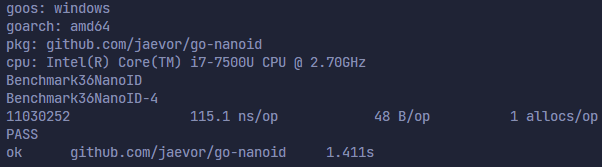
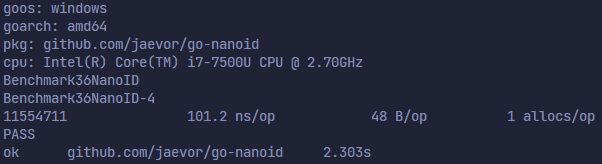
more mem opt

diff --git a/nanoid.go b/nanoid.go
@@ -17,12 +17,31 @@ import (
 )
 
 // Default characters (A-Za-z0-9_-).
-var defaultAlphabet = []byte("useandom-26T198340PX75pxJACKVERYMINDBUSHWOLF_GQZbfghjklqvwyzrict")
+// Using less memory with [64]byte{...} than []byte(...).
+// var defaultAlphabet = []byte("useandom-26T198340PX75pxJACKVERYMINDBUSHWOLF_GQZbfghjklqvwyzrict")
+var defaultAlphabet = [...]byte{
+	'a', 'b', 'c', 'd',
+	'e', 'f', 'g', 'h',
+	'i', 'j', 'k', 'l',
+	'm', 'n', 'o', 'p',
+	'q', 'r', 's', 't',
+	'u', 'v', 'w', 'x',
+	'y', 'z', 'A', 'B',
+	'C', 'D', 'E', 'F',
+	'G', 'H', 'I', 'J',
+	'K', 'L', 'M', 'N',
+	'O', 'P', 'Q', 'R',
+	'S', 'T', 'U', 'V',
+	'W', 'X', 'Y', 'Z',
+	'0', '1', '2', '3',
+	'4', '5', '6', '7',
+	'8', '9', '-', '_',
+}
 
 type generator = func() string
 
 /*
-Creates a new generator for Nano IDs.
+Creates a new generator for canonical Nano IDs.
 
 📝 Recommended (standard) length is 21
 
@@ -96,6 +115,10 @@ func StandardNonSecure(length int) (generator, error) {
 	size := len(b)
 	offset := 0
 
+	/*
+		"Read generates len(p) random bytes from the default Source and
+		writes them into p... It always returns len(p) and a **nil error**."
+	*/
 	mathRand.Read(b)
 
 	// Reuse.
@@ -114,13 +137,13 @@ func StandardNonSecure(length int) (generator, error) {
 		}
 
 		for i := 0; i < length; i++ {
-			/*
-				"It is incorrect to use bytes exceeding the alphabet size.
-				The following mask reduces the random byte in the 0-255 value
-				range to the 0-63 value range. Therefore, adding hacks such
-				as empty string fallback or magic numbers is unneccessary because
-				the bitmask trims bytes down to the alphabet size (64).""
-			*/
+			// 	/*
+			// 		"It is incorrect to use bytes exceeding the alphabet size.
+			// 		The following mask reduces the random byte in the 0-255 value
+			// 		range to the 0-63 value range. Therefore, adding hacks such
+			// 		as empty string fallback or magic numbers is unneccessary because
+			// 		the bitmask trims bytes down to the alphabet size (64).""
+			// 	*/
 			id[i] = defaultAlphabet[b[i+offset]&63]
 		}
 
@@ -214,7 +237,7 @@ func CustomNonSecure(alphabet string, length int) (generator, error) {
 	}, nil
 }
 
-var errInvalidLength = errors.New("length must be between 2 and 255 (inclusive)")
+var errInvalidLength = errors.New("length for ID is too large or small")
 
 func invalidLength(length int) bool {
 	return length < 2 || length > 255

diff --git a/nanoid_test.go b/nanoid_test.go
@@ -1,3 +1,4 @@
+// Tests & benchmarks
 package nanoid_test
 
 import (
@@ -16,7 +17,7 @@ func init() {
 	rand.Seed(time.Now().Unix())
 }
 
-func TestNew(t *testing.T) {
+func TestStandard(t *testing.T) {
 	t.Run("general", func(t *testing.T) {
 		f, err := nanoid.Standard(21)
 		assert.NoError(t, err, "should be no error")
@@ -41,7 +42,7 @@ func TestNew(t *testing.T) {
 	})
 }
 
-func TestNewNonSecure(t *testing.T) {
+func TestNonSecure(t *testing.T) {
 	t.Run("general", func(t *testing.T) {
 		f, err := nanoid.StandardNonSecure(21)
 		assert.NoError(t, err, "should be no error")
@@ -51,7 +52,7 @@ func TestNewNonSecure(t *testing.T) {
 	})
 }
 
-func TestNewCustom(t *testing.T) {
+func TestCustom(t *testing.T) {
 	t.Run("general", func(t *testing.T) {
 		f, err := nanoid.Custom("abcdef", 21)
 		id := f()
@@ -89,7 +90,7 @@ func TestCollisions(t *testing.T) {
 	tries := 500_000
 
 	used := make(map[string]bool)
-	f, err := nanoid.Standard(21)
+	f, err := nanoid.Standard(8)
 	if err != nil {
 		panic(err)
 	}
@@ -101,8 +102,8 @@ func TestCollisions(t *testing.T) {
 	}
 }
 
-func Benchmark21NanoID(b *testing.B) {
-	f, err := nanoid.Standard(21)
+func Benchmark8NanoID(b *testing.B) {
+	f, err := nanoid.Standard(8)
 	if err != nil {
 		panic(err)
 	}
@@ -112,8 +113,8 @@ func Benchmark21NanoID(b *testing.B) {
 	}
 }
 
-func Benchmark8NanoID(b *testing.B) {
-	f, err := nanoid.Standard(8)
+func Benchmark21NanoID(b *testing.B) {
+	f, err := nanoid.Standard(21)
 	if err != nil {
 		panic(err)
 	}

diff --git a/README.md b/README.md
@@ -11,8 +11,8 @@ This module is a Go implementation of [nanoid](https://github.com/ai/nanoid).
 Features of the nanoid spec are:
 - URL friendly
 - Use of hardware random generator
-- Uses a bigger alphabet than UUID, so a similar number of random bits are packed in just 21 symbols instead of 36 (like UUID)
-- 2x faster than UUID (V4)
+- Uses a bigger alphabet than UUID, so a similar number of random bits are packed in just 21 chars instead of 36 (like UUID)
+- Much, much faster than UUID (V4)
 
 Features of this specific implementation are:
 - Fastest and most performant implementation of Nano ID ([benchmarks](#benchmarks))
@@ -23,7 +23,7 @@ Features of this specific implementation are:
 ***See [comparison of Nano ID and UUID (V4)](https://github.com/ai/nanoid/blob/main/README.md#comparison-with-uuid)***:
 >"Nano ID is quite comparable to UUID v4 (random-based). It has a similar number of random bits in the ID (126 in Nano ID and 122 in UUID), so it has a similar collision probability -- **for there to be a one in a billion chance of duplication, 103 trillion version 4 IDs must be generated**"
 
-**And [NanoID collison calculator](https://zelark.github.io/nano-id-cc/)**:
+**And [NanoID collision calculator](https://zelark.github.io/nano-id-cc/)**:
 > If 1,000,000 Nano IDs (using `nanoid.Standard(21)`) were generated **each second**, it would require ~41 thousand years in order to have a 1% probability of a collision 
 
 **Read more [here](https://github.com/ai/nanoid/blob/main/README.md)**
@@ -82,9 +82,9 @@ These are all benchmarks of the `Standard` Nano ID generator
 
 | # of characters & # of IDs | benchmark screenshot |
 | -------------------------- | ---------- |
-| 8, ~19,120,000             | <img src="img/benchmark-8.png">   |
-| 21, ~14,500,000            | <img src="img/benchmark-21.png">  |
-| 36, ~11,000,000            | <img src="img/benchmark-36.png">  |
+| 8, ~21,800,000             | <img src="img/benchmark-8.png">   |
+| 21, ~15,100,000            | <img src="img/benchmark-21.png">  |
+| 36, ~11,500,000            | <img src="img/benchmark-36.png">  |
 | 255, ~2,300,000            | <img src="img/benchmark-255.png"> |
 
 ## Credits & references
